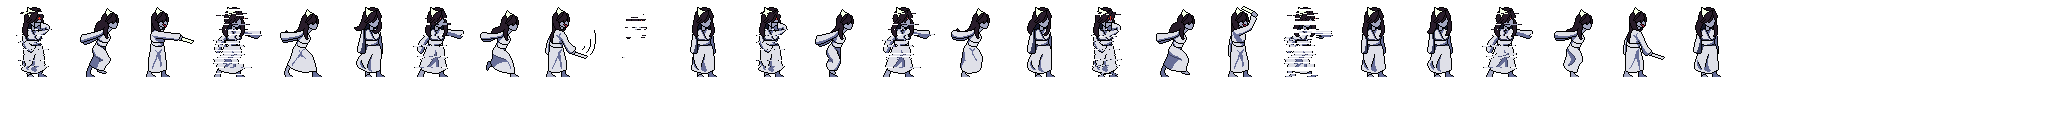
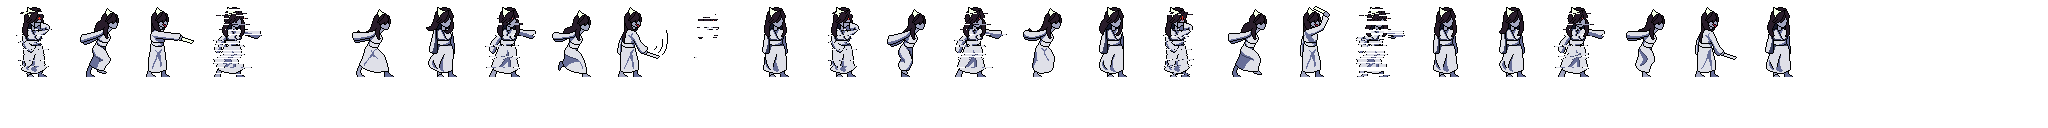
Fixed enemy heroes death animation. Also changed attack speeds

Changed region(s): [[0.125, 0.0625, 0.875, 0.625]]

diff --git a/core/src/main/java/com/gdx/game/Hero.java b/core/src/main/java/com/gdx/game/Hero.java
@@ -13,10 +13,10 @@ import java.util.HashMap;
 import java.util.Map;
 
 enum HeroPreset {
-    HEAVY("HeroAtlas/heavyHero.atlas", 15f, 30f, 10f, 150f, 2f, 14, 12, true),
-    LIGHT("HeroAtlas/lightHero.atlas", 25f, 20f, 10f, 125f, 1f, 10, 10, true),
-    ENEMY_LIGHT("HeroAtlas/lightEnemyHero.atlas", 25f, 20f, 10f, 125f, 1f, 10, 10, false),
-    ENEMY_HEAVY("HeroAtlas/heavyEnemyHero.atlas", 15f, 30f, 10f, 150f, 2f, 14, 12, false);
+    HEAVY("HeroAtlas/heavyHero.atlas", 15f, 30f, 10f, 150f, 1f, 14, 12, true),
+    LIGHT("HeroAtlas/lightHero.atlas", 25f, 20f, 10f, 125f, 0.5f, 10, 10, true),
+    ENEMY_LIGHT("HeroAtlas/lightEnemyHero.atlas", 25f, 20f, 10f, 125f, 0.5f, 10, 10, false),
+    ENEMY_HEAVY("HeroAtlas/heavyEnemyHero.atlas", 15f, 30f, 10f, 150f, 1f, 14, 12, false);
     
     final String assetPath;
 
